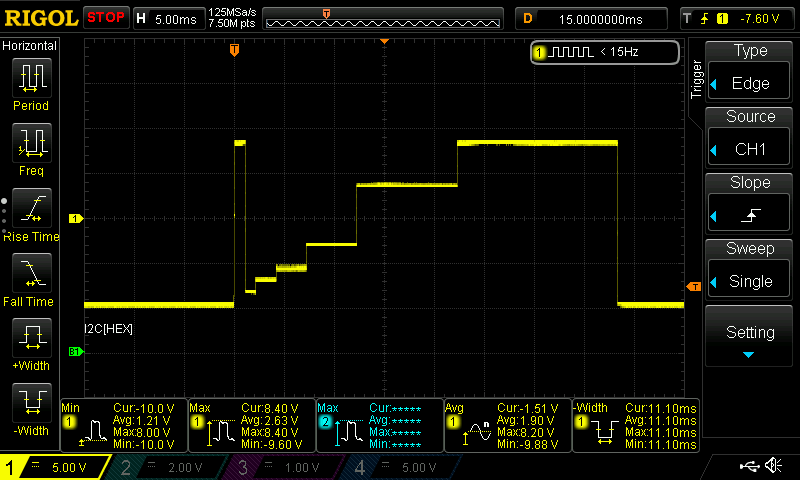
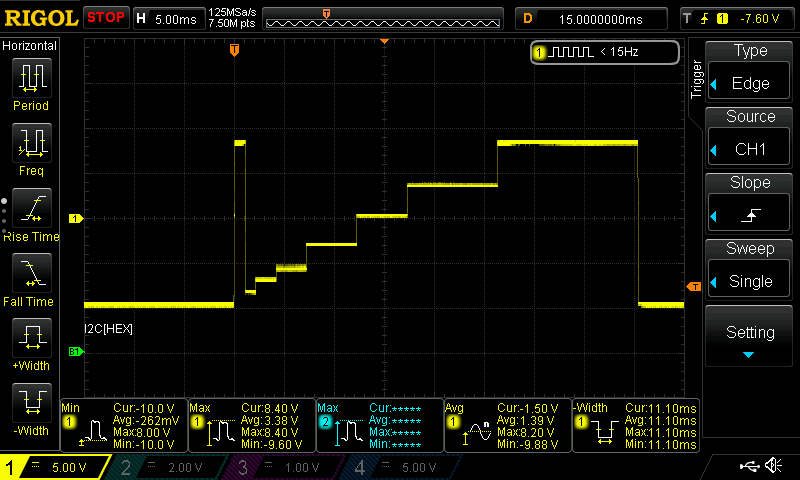
Make AD5766 scope trace look nicer

diff --git a/README.md b/README.md
@@ -256,13 +256,13 @@ T2490000
 Note these commands address `AD5766-A` on SPI3, but will work on `AD5766-B` on SPI4 if you change all the targets to `4`.
 
 ```
-; ~Reset=LOW (resets chip)
+; ~Reset LOW (resets chip)
 I31
 ; T10=100ns, so 1ms more than enough
 D1
-; ~Reset=HIGH
+; ~Reset HIGH
 I31
-; "Minimum time between a reset and the subsequent successful write is typically 25 ns."
+; I can't find min time from reset to write (even though it is refered to), but 1ms probably enough. 
 D1
 ; "Always issue a software reset before writing to the span register."
 ; Full Software reset = 0b0111 0000 0001 0010 0011 0100
@@ -273,7 +273,7 @@ T3400017
 ;Trigger scope
 D1
 ; Make an interesting ramp on OUT0....
-; Write 16 bit value to to DAC register 0 = 0010 0000 vvvv vvvv vvvv vvvv 
+; Write to to DAC register 0 value 0xA5A5 = 0010 0000 1010 0101 1010 0101
 T3201111
 D1
 T3202222
@@ -282,13 +282,18 @@ T3203333
 D3
 T3205555
 D5
+;Half way
+T3208000
+D5
 T320AAAA
-D10
+D9
 T320FFFF
-D16
+D14
 ;Bring it back home
 T3200000
 ;Go check your osciliscope
+
+
 ```
 
 
